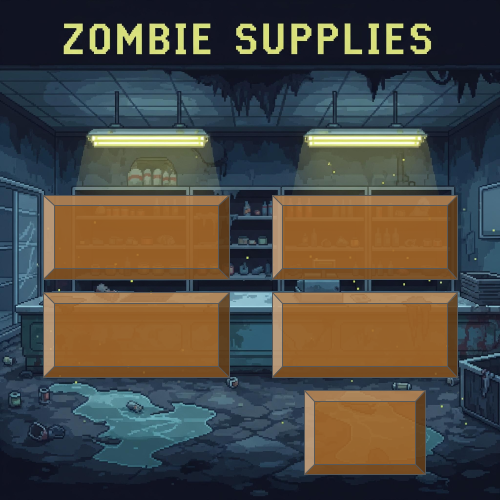
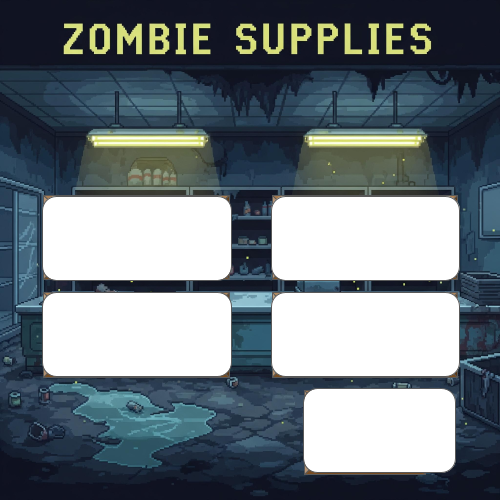
shop added

diff --git a/GameData/zombie_blitz.py b/GameData/zombie_blitz.py
@@ -7,8 +7,7 @@ class Vector:
         self.y = y
     
     def add(self, other):
-        self.x += other.x
-        self.y += other.y
+        return Vector(self.x + other.x, self.y + other.y) #return a new vector thats the sum of the two
 
 #player class 
 class Player:
@@ -17,7 +16,7 @@ class Player:
         self.position = position
         self.weapon = None
         self.inventory = []
-        self.coins = 0
+        self.coins = 1000
         self.sprite = sprite
         self.days_played = 0
         self.zombies_killed = 0
@@ -67,7 +66,19 @@ class Images: #images that can be generated onto a scene
         self.position = position #the coordinates it will spawn at (given as a vector)
     
     def load(self):
-        screen.blit(self.image, self.position)
+        blit_destination_coordinates = None
+
+        if isinstance(self.position, Vector):
+            #if self.position is a Vector, get its x and y attributes for the tuple
+            blit_destination_coordinates = (self.position.x, self.position.y)
+        elif isinstance(self.position, tuple) and len(self.position) == 2:
+            #if it's already a tuple, assume it's (x,y)
+            #add a check to ensure its elements are numbers, just in case
+            if isinstance(self.position[0], (int, float)) and \
+               isinstance(self.position[1], (int, float)):
+                blit_destination_coordinates = self.position
+
+        screen.blit(self.image, blit_destination_coordinates)
 
 class SceneText: #text that can be generated onto a screen
     def __init__(self, text, position, size, color):
@@ -140,6 +151,7 @@ def open_credits(): #opens credits menu
     scene_handler.update(credits) 
 
 def open_inventory():
+    reload_inventory_assets()
     scene_handler.update(inventory)  
 
 def open_store():
@@ -154,6 +166,27 @@ def equip(new_weapon):
     player.weapon = new_weapon
     print(player.weapon.name+"EQUIPPED")
     load_inventory_assets() #reloads the screen so colors update
+
+def purchase(weapon_to_buy):
+    #double check user can make the purchase
+    if weapon_to_buy in player.inventory:
+        print(f"INFO: You already own {weapon_to_buy.name}.")
+        return #exit if already owned
+
+    if player.coins >= weapon_to_buy.cost:
+        player.inventory.append(weapon_to_buy)
+        player.coins -= weapon_to_buy.cost
+        print(f"Purchased: {weapon_to_buy.name} for {weapon_to_buy.cost} coins.")
+        print(f"Remaining coins: {player.coins}")
+
+        #reload the scene to update that its now sold out
+        if scene_handler.current == store:
+            scene_handler.load() 
+        else:
+            #this case should ideally not happen if purchase is only from store scene
+            print("DEBUG: Purchase occurred, but not on the store scene?")
+    else:
+        print(f"INFO: Not enough coins to purchase {weapon_to_buy.name}.")
 
 
 def get_pre_game_assets(): #dynamically gets the assets for the pregame
@@ -178,6 +211,98 @@ def get_pre_game_assets(): #dynamically gets the assets for the pregame
         Button((0,0,0), Vector(220,400), Vector(300,100), None, None)
     ]
     return assets 
+
+def get_store_assets(current_player,available_weapons):
+    assets = [
+        Button((255,255,255), Vector(0,460), Vector(100,30), "<<<", go_back), # Back button
+
+        SceneText("Your coins: "+str(player.coins), Vector(30,400), 30, (255,255,255))
+    ]
+
+    #define details for each item slot in the store.
+    #this links a weapon to a specific position and button size.
+    #the weapon objects (ak47, rocket_launcher, etc.) are used directly.
+    slot_details = [
+        {"weapon": ak47, "base_pos": Vector(50,200), "button_size": Vector(175,75)},
+        {"weapon": rocket_launcher, "base_pos": Vector(280,200), "button_size": Vector(175,75)},
+        {"weapon": sniper, "base_pos": Vector(50,300), "button_size": Vector(175,75)},
+        {"weapon": shotgun, "base_pos": Vector(280,300), "button_size": Vector(175,75)},
+        {"weapon": dynamite, "base_pos": Vector(310,400), "button_size": Vector(110,75)}
+    ]
+
+    for detail in slot_details:
+        weapon_to_display = detail["weapon"]
+        base_pos = detail["base_pos"]  # Top-left corner of the slot
+        button_size = detail["button_size"]
+
+        #create the clickable button areas
+        #this button will be an invisible clickable area if text is ""
+        #the on_click action is defined based on whether the item is owned.
+        purchase_action = None
+        if not current_player.inventory.__contains__(weapon_to_display):
+            #use a helper to ensure 'weapon_to_display' is captured correctly in the lambda
+            def create_action(weapon):
+                return lambda: purchase(weapon)
+            purchase_action = create_action(weapon_to_display)
+        else:
+            purchase_action = lambda: None #do nothing if already owned / sold out
+
+        assets.append(
+            Button(
+                (255,255,255),    #button color
+                base_pos,       #position of the button
+                button_size,    #size of the button
+                "",             #button text (empty, as visuals are separate)
+                purchase_action #action on click
+            )
+        )
+
+        #visuals for the Slot (Image, Name, Cost/Sold Out)
+        #positions are relative to base_pos.
+        #create new vectors for each position to avoid issues if Vector.add is in-place.
+        image_display_pos = Vector(base_pos.x + 5, base_pos.y + 7)  #offset within the button area
+        text_name_pos = Vector(base_pos.x + 80, base_pos.y + 15)     #[osition for weapon name
+        text_info_pos = Vector(base_pos.x + 80, base_pos.y + 40)     #position for cost or "Owned"
+        item_image_size = (70, 60)                                #standard size for weapon images
+
+        if current_player.inventory.__contains__(weapon_to_display):
+            #item is owned: display "sold out" image and "Owned" text
+            assets.append(Images("Sprites/sold out.png", (image_display_pos), (item_image_size)))
+            assets.append(SceneText(weapon_to_display.name, text_name_pos, 20, (120,120,120))) #greyed out name
+            assets.append(SceneText("Owned", text_info_pos, 20, (120,120,120)))
+        else:
+            #item is available: display weapon sprite, name, and cost
+            assets.append(Images(weapon_to_display.sprite, (image_display_pos), (item_image_size)))
+            assets.append(SceneText(weapon_to_display.name, text_name_pos, 20, (0,0,0)))
+            assets.append(SceneText(f"Cost: {weapon_to_display.cost}", text_info_pos, 20, (0,0,0)))
+
+    return assets
+
+def reload_inventory_assets(): #neccessary to get the inventoy to auto reload to display the users updates inventory after buying a weapon
+    #this function builds the asset list and assigns it directly to the global 'inventory' scene's asset list.
+    new_assets_list = []
+
+    #add the static back button
+    new_assets_list.append(Button((255,255,255), Vector(0,460), Vector(100,30), "<<<", go_back))
+
+    #add dynamic item buttons
+    y_position = 50
+    for item in player.inventory:
+        color = (255,255,255)  #default color: white
+        if item == player.weapon: #check if the item is the one currently equipped
+            color = (50,205,50)  #green if equipped
+        
+        #helper to ensure 'item' is correctly captured in the lambda for each button
+        def create_equip_action(weapon_to_equip):
+            return lambda: equip(weapon_to_equip)
+
+        new_assets_list.append(
+            Button(color, Vector(150, y_position), Vector(200, 40), item.name, create_equip_action(item))
+        )
+        y_position += 50
+    
+    #directly update the assets of the inventory scene instance
+    inventory.assets = new_assets_list
 
 #initialise pygame
 pygame.init()
@@ -211,25 +336,26 @@ player = Player(None, "Sprites/player.png")
 
 #generate weapons
 pistol = Weapon("Pistol", 1, None, "Sprites/weapons/pistol.png", None)
-sniper = Weapon("Sniper", 1, None, "Sprites/weapons/sniper.png", None)
-ak47 = Weapon("AK47", 5, None, "Sprites/weapons/ak47.png", None)
-rocket_launcher = Weapon("Rocket Launcher", 10, None, "Sprites/weapons/rocket launcher.png", None)
-shotgun = Weapon("Shotgun", 3, None, "Sprites/weapons/shotgun.png", None)
+sniper = Weapon("Sniper", 1, None, "Sprites/weapons/sniper.png", 150)
+ak47 = Weapon("AK47", 5, None, "Sprites/weapons/ak47.png", 300)
+rocket_launcher = Weapon("Rocket Launcher", 10, None, "Sprites/weapons/rocket launcher.png", 250)
+shotgun = Weapon("Shotgun", 3, None, "Sprites/weapons/shotgun.png", 100)
+dynamite = Weapon("Dynamite", 10, None, "Sprites/weapons/dynamite.png", 100)
+
+#used to pass in the dynamic loader for the store
+weapons_for_sale = [ak47,sniper,rocket_launcher,shotgun,dynamite]
 
 #equip default weapon
 player.weapon = pistol
 player.inventory.append(pistol)
-player.inventory.append(sniper)
-player.inventory.append(shotgun)
-player.inventory.append(rocket_launcher)
-player.inventory.append(ak47)
-
 
 #instantiate scene handler
 scene_handler.update(main_menu)
 
 #generate assets for each menu
 pre_game.dynamic_assets_loader = get_pre_game_assets #assigns the dynamic loader for pregame
+store.dynamic_assets_loader = lambda: get_store_assets(player, weapons_for_sale) #assigns the dynamic loader for store
+
 
 main_menu.assets = [
     Button((0,0,0), Vector(260,180), Vector(200,50), "START", start_game), #start button
@@ -254,10 +380,6 @@ settings.assets = [
 
 help.assets = [
     Button((255,255,255), Vector(0,460), Vector(100,30), "<<<", go_back) #back button
-]
-
-store.assets = [
-    Button((255,255,255), Vector(0,460), Vector(100,30), "<<<", go_back), #back button
 ]
 
 inventory.assets = [
